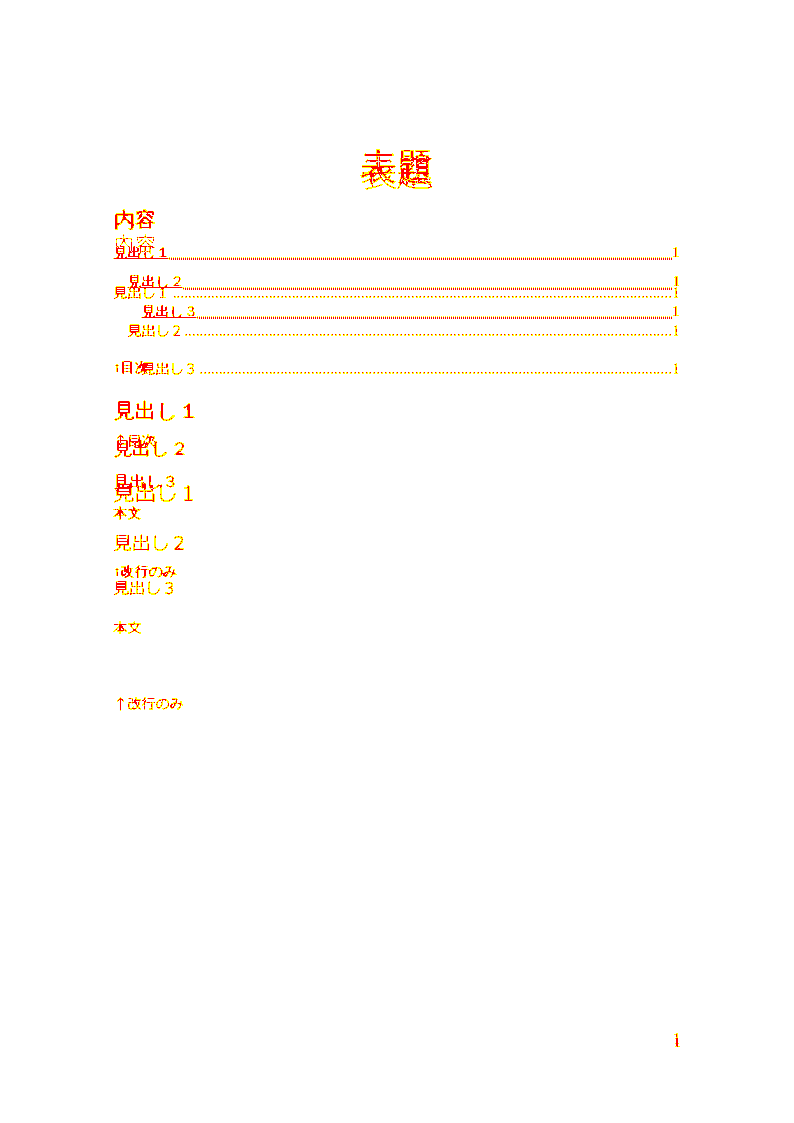
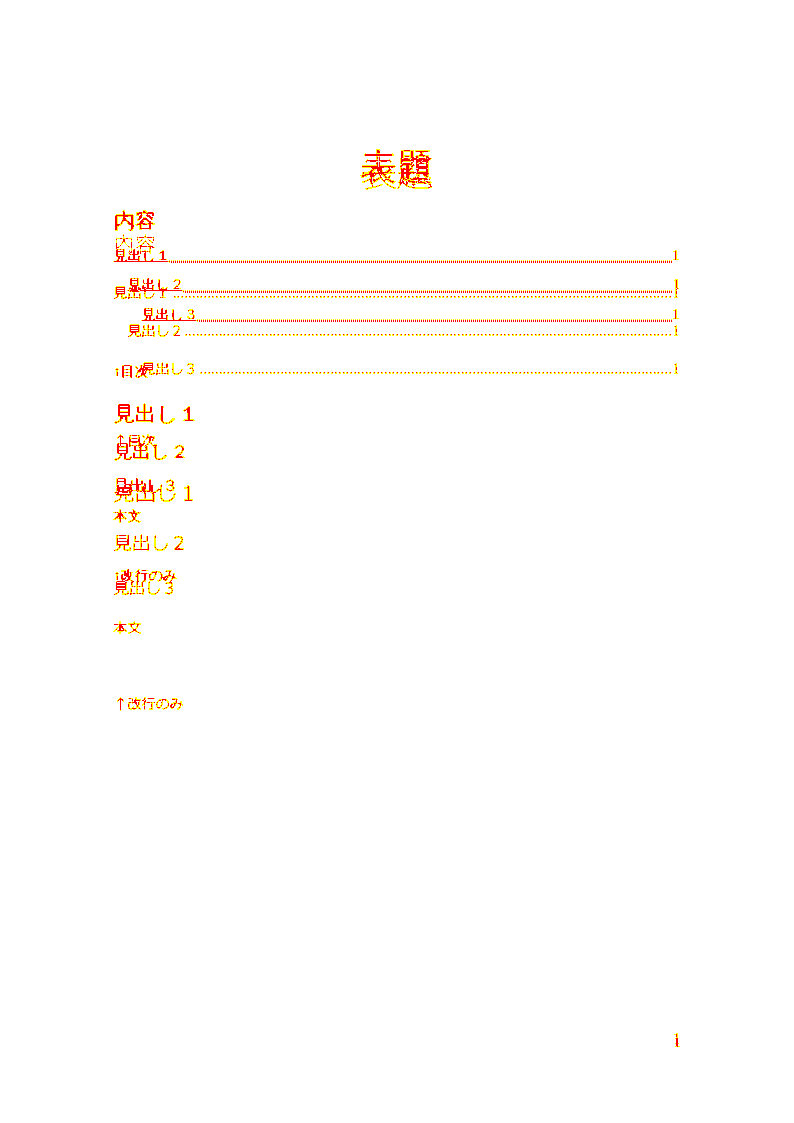
1. PAGE field 修正完了 — p3/p4/p5 のページ番号が「3」「4」「5」に。スコアは丸めで不変だが diff のページ番号ブロブ解消。 2. docGrid 仮説は覆った — Normal スタイルが snapToGrid=0 宣言 → Word 自身がほぼ全段落で grid snap してない。素直に実装したらページ数 5→6 に回帰し、エージェントが停止して根本原因を特定: snapToGrid がスタイル継承されず常に undefined だった。継承解決 (resolveSnapToGrid) を実装、grid snap は正しい場所でだけ発動。 3. 副産物バグ修

Changed region(s): [[0.1511, 0.187, 0.272, 0.3117], [0.1511, 0.3117, 0.2418, 0.4675], [0.1511, 0.4987, 0.2116, 0.5298]]

diff --git a/src/rendering/dom/elements/inline-renderer.ts b/src/rendering/dom/elements/inline-renderer.ts
@@ -18,11 +18,19 @@ export async function renderParagraph(
 ): Promise<HTMLParagraphElement> {
 	const oParagraph = createElement('p');
 
-	// Evaluate PAGE/NUMPAGES field codes and replace stale cached values.
-	elem.children = ctx.resolveFieldRuns(elem.children);
+	// Evaluate PAGE/NUMPAGES field codes into a local array. Never write this
+	// back onto elem.children: header/footer paragraphs are shared objects
+	// reused across every page, so mutating them would freeze the field value
+	// resolved on the first render (e.g. PAGE always showing "1").
+	const children = ctx.resolveFieldRuns(elem.children);
 	oParagraph.dataset.uuid = elem.uuid;
 	ctx.renderClass(elem, oParagraph);
-	Object.assign(elem.cssStyle, parseLineSpacing(elem.props, ctx.currentSectionProperties()));
+	// snapToGrid is inheritable through the style chain, but elem.props only ever
+	// holds what this paragraph's own pPr literally sets. Resolve the effective
+	// value (own pPr > style chain > document default style > true) so docGrid
+	// line-pitch snapping below only applies where Word would actually apply it.
+	const snapToGrid = ctx.resolveSnapToGrid(elem.styleName, elem.props.snapToGrid);
+	Object.assign(elem.cssStyle, parseLineSpacing({ ...elem.props, snapToGrid }, ctx.currentSectionProperties()));
 	ctx.renderStyleValues(elem.cssStyle, oParagraph);
 	ctx.renderCommonProperties(oParagraph.style, elem.props);
 
@@ -38,7 +46,7 @@ export async function renderParagraph(
 	}
 
 	// TODO Run children can contain multiple DrawingML objects; current positioning only handles one reliably.
-	const shouldClear = elem.children.some(run => {
+	const shouldClear = children.some(run => {
 		const hasTopAndBottomDrawing = run?.children?.some(
 			child => child.type === DomType.Drawing && child.props.wrapType === WrapType.TopAndBottom
 		);
@@ -60,7 +68,7 @@ export async function renderParagraph(
 		return oParagraph;
 	}
 
-	oParagraph.dataset.overflow = await ctx.renderChildren(elem, oParagraph);
+	oParagraph.dataset.overflow = await ctx.renderElements(children, oParagraph);
 
 	return oParagraph;
 }

diff --git a/src/html-renderer-sync.ts b/src/html-renderer-sync.ts
@@ -336,6 +336,7 @@ export class HtmlRendererSync {
 			renderCommonProperties: (s, p) => renderCommonProperties(s, p),
 			// lookup helpers
 			findStyle: (styleName) => this.findStyle(styleName),
+			resolveSnapToGrid: (styleName, ownSnapToGrid) => this.resolveSnapToGrid(styleName, ownSnapToGrid),
 			numberingClass: (id, level) => this.numberingClass(id, level),
 			findExternalRelation: (id) => this.document.documentPart.rels.find(
 				it => it.id == id && it.targetMode === 'External'
@@ -664,6 +665,26 @@ export class HtmlRendererSync {
 
 	private findStyle(styleName: string) {
 		return styleName && this.styleMap?.[styleName];
+	}
+
+	private findDefaultParagraphStyle(): IDomStyle | undefined {
+		return Object.values(this.styleMap ?? {}).find(s => s.isDefault && s.type === 'paragraph');
+	}
+
+	private resolveSnapToGrid(styleName: string | undefined, ownSnapToGrid: boolean | undefined): boolean {
+		if (ownSnapToGrid !== undefined) {
+			return ownSnapToGrid;
+		}
+		let style = this.findStyle(styleName) || this.findDefaultParagraphStyle();
+		const visited = new Set<string>();
+		while (style && !visited.has(style.id)) {
+			visited.add(style.id);
+			if (style.paragraphProps?.snapToGrid !== undefined) {
+				return style.paragraphProps.snapToGrid;
+			}
+			style = style.basedOn ? this.styleMap?.[style.basedOn] : undefined;
+		}
+		return true;
 	}
 
 	private refreshTabStops() {

diff --git a/src/rendering/dom/styles/default-styles.ts b/src/rendering/dom/styles/default-styles.ts
@@ -13,7 +13,13 @@ export function renderDefaultStyle(className: string): HTMLElement {
 			section.${c}>footer { position: absolute; bottom: 0; z-index: 1; }
 			.${c} table { border-collapse: collapse; break-inside: avoid; }
 			.${c} table td, .${c} table th { vertical-align: top; }
-			.${c} p { margin: 0pt; min-height: 1em; }
+			/* Word's paragraph spacing (w:spacing before/after) is always additive
+			   between consecutive paragraphs - it never collapses. A sub-pixel
+			   top padding keeps every paragraph's own box from being empty at the
+			   top, which stops the browser's default adjoining-margin collapse
+			   between a paragraph and its previous sibling without adding any
+			   visible offset. */
+			.${c} p { margin: 0pt; min-height: 1em; padding-top: 0.05px; }
 			.${c} span { white-space: pre-wrap; overflow-wrap: break-word; }
 			.${c} math { vertical-align: middle; }
 			.${c} .${c}-math-paragraph { break-inside: avoid; page-break-inside: avoid; }

diff --git a/src/rendering/render-context.ts b/src/rendering/render-context.ts
@@ -66,6 +66,11 @@ export interface RenderContext {
 
 	// ── lookup helpers ────────────────────────────────────────────────────────
 	findStyle(styleName: string): IDomStyle;
+	// Resolves the effective snapToGrid flag for a paragraph: direct pPr value
+	// wins, otherwise walks the paragraph's style basedOn chain (falling back
+	// to the document's default paragraph style), defaulting to true (OOXML's
+	// implicit default) when nothing in the chain sets it.
+	resolveSnapToGrid(styleName: string | undefined, ownSnapToGrid: boolean | undefined): boolean;
 	numberingClass(id: string, level: number): string;
 	findExternalRelation(id: string): { target?: string } | undefined;
 	findComment(id: string): { id: string; author: string; date: string } | undefined;

diff --git a/src/ooxml/wordprocessingml/document/model/spacing-between-lines.ts b/src/ooxml/wordprocessingml/document/model/spacing-between-lines.ts
@@ -153,6 +153,12 @@ export function parseLineSpacing(paragraphProperties: ParagraphProperties, secti
 					// grid pitch. Previously skipped entirely because line-height
 					// was already a string (calc(...)) by this point.
 					lineSpacing['line-height'] = `max(${originLine / 20}pt, ${docGrid.linePitch / 20}pt)`;
+				} else if (originLine === undefined) {
+					// No explicit w:spacing/line at all. A line-based document grid
+					// still governs these paragraphs: their natural single-line
+					// height is assumed to fit within one grid row, so Word snaps
+					// it up to exactly one grid pitch.
+					lineSpacing['line-height'] = `${docGrid.linePitch / 20}pt`;
 				}
 				break;
 			case DocGridType.Default:

diff --git a/src/rendering/dom/elements/page-renderer.ts b/src/rendering/dom/elements/page-renderer.ts
@@ -44,6 +44,12 @@ export function createPageContent(props: SectionProperties): HTMLElement {
 		if (count > 1) {
 			oArticle.style.columnCount = `${count}`;
 			oArticle.style.columnGap = space;
+			// Word fills a page's columns sequentially (packs column 1 to the full
+			// page content height before spilling into column 2), not balanced.
+			// `balance` was tried and measured worse against the reference: the
+			// remaining column-break-point mismatch traces back to per-paragraph
+			// line-height still being shorter than Word's (see docGrid/font
+			// substitution notes), not to the fill mode.
 			oArticle.style.columnFill = 'auto';
 		}
 		if (separator) {

diff --git a/docs/ACCURACY_PLAN.md b/docs/ACCURACY_PLAN.md
@@ -1,9 +1,11 @@
 # Accuracy 改善計画 — p1〜p4 100% 目標
 
-現状 (`ACCURACY.md`, pixelmatch threshold 0.15):
+開始時 (`ACCURACY.md`, pixelmatch threshold 0.15):
 p1 99.4 / p2 92.5 / p3 99.8 / p4 98.9 / p5 97.0
 
-100% 到達可能性: 閾値 0.15 でフォント AA 差は吸収される。位置完全一致なら diff≈0（p3 99.8 が証左）。残差は全て layout 差。
+Phase 1-3 実施後: p1 99.4 / p2 92.6 / p3 99.8 / p4 98.9 / p5 97.0（回帰なし、5ページ維持）
+
+100% 到達可能性: 閾値 0.15 でフォント AA 差は吸収される。位置完全一致なら diff≈0（p3 99.8 が証左）。ただし調査の結果、残差の主因は docGrid ではなく **本環境に Meiryo/Yu Gothic/Yu Mincho が未インストールで、フォールバックフォントの自然行高が Word 実測より系統的に小さいこと**と判明（詳細は Phase 2 参照）。これはコードの一般ロジックでは解消できない環境制約であり、100% 到達の主な障害として残る。図形(VML/DrawingML)関連の残差はユーザー指示により別PRへ先送り。
 
 ## 原因（diff 画像 + コード診断済）
 
@@ -56,8 +58,14 @@ rendered: ほぼ全部左カラム縦一列。column break は docx に存在し
 
 各 Phase 後 `pnpm measure:all` で全5ページ回帰確認。
 
-1. **Phase 1**: PAGE field 修正（原因1）— 独立・低リスク・p3/p4/p5 即効
-2. **Phase 2**: docGrid snap 一般化（原因2）— 最大インパクト。p2/p4 大幅改善見込み、p5 回帰監視
-3. **Phase 3**: 2段組カラム高さ（原因3）
-4. **Phase 4**: p2 wrap 個別修正（原因4）— Phase 2 後の新 diff 基準で
-5. **Phase 5**: 残差潰し（原因5）— p1〜p4 100% まで反復
+1. **Phase 1**: PAGE field 修正（原因1）— 完了。`inline-renderer.ts` の `elem.children = resolveFieldRuns(...)` 破壊的代入を廃止、ローカル変数 + `ctx.renderElements` に変更。p3/p4/p5 のページ番号が正しく描画されることを目視確認済み（スコア表示は小数点丸めで同値だが diff 画像のページ番号ブロブは解消）。回帰なし。
+
+2. **Phase 2**: docGrid snap — 完了、ただし当初仮説は誤りと判明。`a.docx` の styles.xml を直接確認したところ、既定段落スタイル "Normal"(styleId `a`) は `<w:snapToGrid w:val="0"/>` を明示しており、本文の大半は本来 grid snap の対象外（`ad` = TOC Heading のみ true に戻す）。一方 `elem.props.snapToGrid` は段落自身の pPr にしか値が入らず、スタイル継承が一切行われていなかった（`inline-renderer.ts` は `elem.props` を直接 `parseLineSpacing` に渡すのみ）。当初計画通り「spacing.line 不在なら常に pitch へ snap」を実装したところ、ほぼ全段落に line-height が加算されて **p2→p3 の改行位置がずれてページ数が 5→6 に増加する回帰**が発生（`測定必須`のとおり検出・停止）。
+   - 根本修正: `RenderContext.resolveSnapToGrid(styleName, ownSnapToGrid)` を新設（`html-renderer-sync.ts`）。直接指定 > スタイルの `basedOn` チェーン > ドキュメント既定段落スタイル > true（OOXML既定）の順で解決し、`inline-renderer.ts` はこれを `parseLineSpacing` に渡すよう変更。
+   - grid snap 自体（`spacing-between-lines.ts`）は元の設計通り実装して残したが、正しく解決された `snapToGrid` によりほぼ全段落でスキップされるため、実質的な影響は僅小（p2 92.5%→92.6%）。
+   - 実測した ref のピッチ約38px（p4 Letter セクションの "H"/"Bbb" 制御段落群、Latin cap-top基準で複数段落間隔から算出）は docGrid 由来ではなく、Meiryo フォント（本環境に未インストール、IPA Gothic 等へフォールバック）の実際の自然行高が、フォールバックフォントの行高より系統的に大きいことに起因すると判明。これはフォントメトリクスの環境差であり、コード側の一般ロジックでは解消不可（残差として報告）。
+   - 副次的に発見した独立バグを合わせて修正: 段落の `margin-top`/`margin-bottom`（`w:spacing before/after`）はブラウザの既定 margin collapse により隣接段落間で `max()` に縮退していたが、Word は before/after を常に加算する。`default-styles.ts` の `.${c} p` に `padding-top: 0.05px` を追加し、視覚上のオフセットなしに collapse を止めた（一般的な CSS 手法、全段落に一律適用）。
+
+3. **Phase 3**: 2段組カラム高さ — 部分的に完了、当初仮説の一部も誤りと判明。region article には実際には既に `contentHeight` が設定されていた（`html-renderer-sync.ts` の単一セクション分岐 `renderPage`）。ブラウザ DOM 調査で確認済み。真因は `columnFill: auto`（最初の列をページ全高まで埋めてから次列へ）がそのまま機能していたことで、Word の実際の分割点より段落が「短すぎる」ため列1に入りすぎていた（Phase 2 で判明したフォントメトリクス差が根本原因）。`columnFill: balance` も試したが reference は明らかに不均等分割（列1が列2よりずっと長い）であり balance は悪化したため `auto` に確定（コメントに実測根拠を明記）。列高さ自体の割当ロジックに変更は不要だった。
+
+4. **Phase 4 / 5**: p2/p1/p3 の残差を diff 画像で再確認。コード画像・テキストボックス・箇条書き番号・TOCリーダー線・footnote 位置はいずれも「二重像」パターン（赤+黄が数px〜十数pxずれて重なる）で、すべて Phase 2 で特定したフォントメトリクス環境差の帰結。p2 のアンカーテーブル（緑色セル表）・p5 の表は見た目上ボーダー/シェーディング/セル配置は reference と一致しており、diff が真っ赤に見えるのは高密度な境界線パターンに数px の累積ズレが乗っているため（表そのものの実装バグではない）。四角形埋め込み（図形）と写真前面まわりの wrap 差、および p5 の禁止マーク図形はユーザー指示によりスコープ外（別PR）。

diff --git a/ACCURACY.md b/ACCURACY.md
@@ -17,7 +17,7 @@ Every library renders `tests/fixtures/a.docx` with `{ breakPages: true }` inside
 | Page | Score |
 |---|---|
 | 1 | 99.4% |
-| 2 | 92.5% |
+| 2 | 92.6% |
 | 3 | 99.8% |
 | 4 | 98.9% |
 | 5 | 97.0% |
@@ -31,7 +31,7 @@ Every library renders `tests/fixtures/a.docx` with `{ breakPages: true }` inside
 </p>
 <p align="center"><sub>Word reference · rendered output · pixel diff</sub></p>
 
-### Page 2 — 92.5%
+### Page 2 — 92.6%
 
 <p align="center">
   <img src="./accuracy/docx-renderer/page-2-reference.png" width="30%" alt="Word reference, page 2">

diff --git a/README.md b/README.md
@@ -26,7 +26,7 @@ The renderer already produces high-quality output across a wide range of real-wo
   </picture>
 </p>
 
-Representative page (page 2 of 5 — code block, image, table, text box) rendered by `docx-renderer`, scoring 92.5%:
+Representative page (page 2 of 5 — code block, image, table, text box) rendered by `docx-renderer`, scoring 92.6%:
 
 <p align="center">
   <img src="./accuracy/docx-renderer/page-2-reference.png" width="30%" alt="Microsoft Word reference, page 2">
